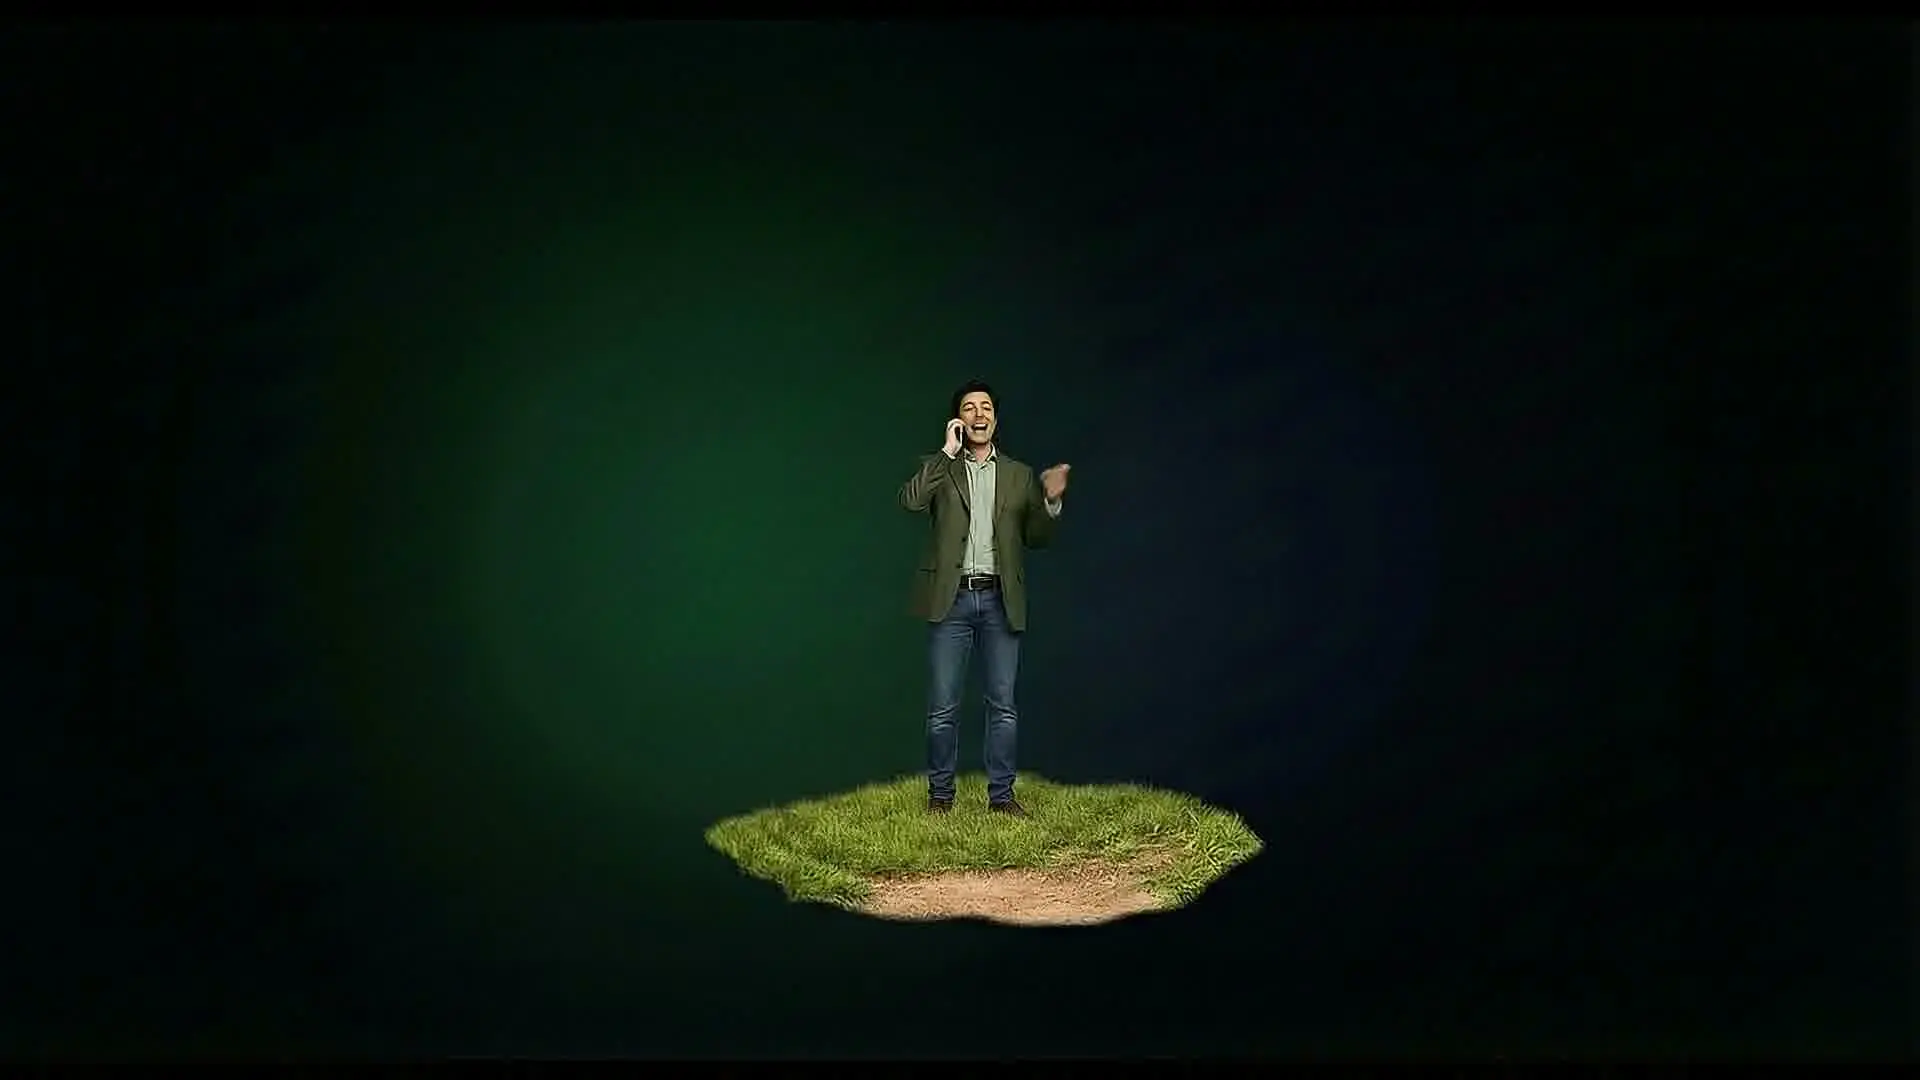
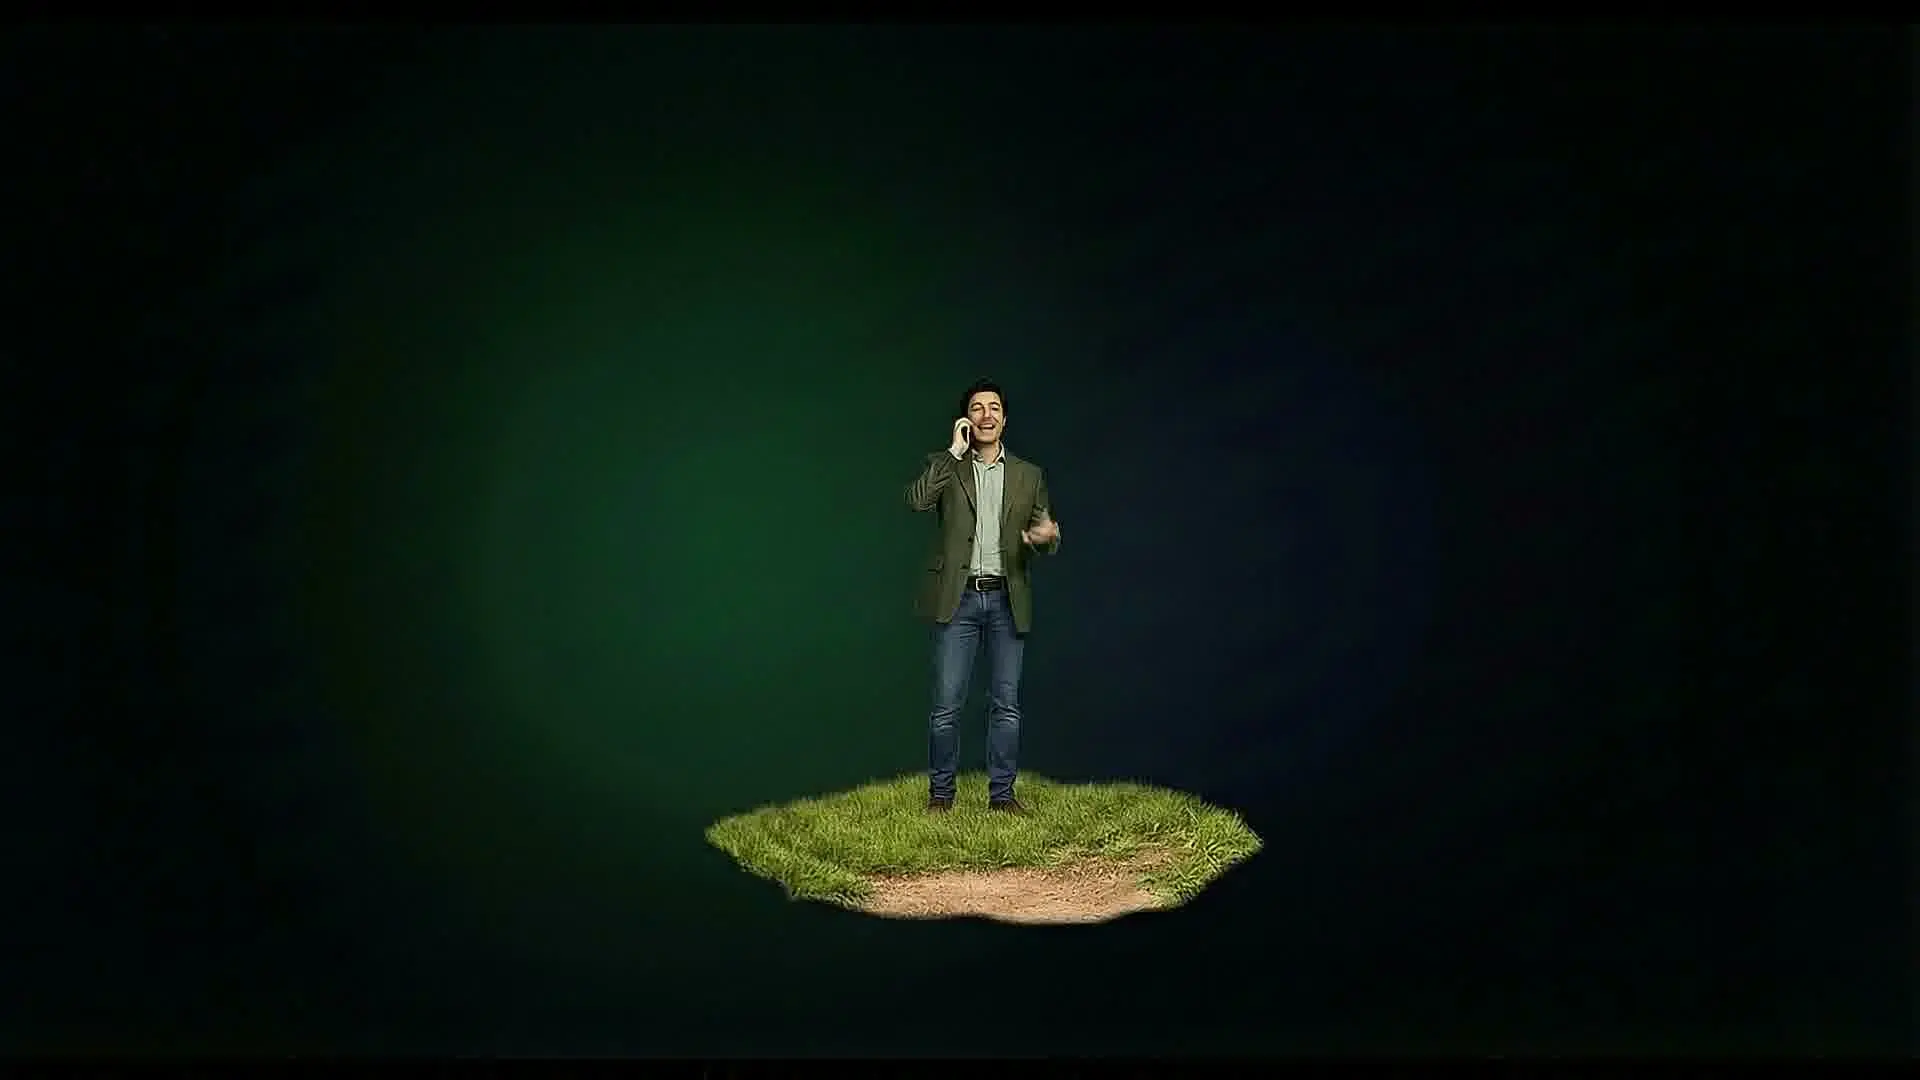
push

Changed region(s): [[0.375, 0.7028, 0.6562, 0.8556], [0.4688, 0.3667, 0.5625, 0.6722]]

diff --git a/src/components/ScrollySection.jsx b/src/components/ScrollySection.jsx
@@ -4,7 +4,7 @@ import HeroSection from './HeroSection'
 import PortfolioBrands from './PortfolioBrands'
 
 // Total number of frames
-const TOTAL_FRAMES = 40
+const TOTAL_FRAMES = 41
 
 // Preload all frame paths
 const framePaths = Array.from({ length: TOTAL_FRAMES }, (_, i) => {
@@ -52,20 +52,20 @@ function ScrollySection({ scrollProgress }) {
     const currentFrame = useMemo(() => {
         let frameIndex = 0
 
-        // Total frames = 40
-        // 0-25: Competition (25 frames) -> alloc 35% scroll (0.0 - 0.35)
-        // 25-35: Companies (10 frames) -> alloc 40% scroll (0.35 - 0.75)
-        // 35-39: Hero (5 frames) -> alloc 25% scroll (0.75 - 1.0)
+        // Total frames = 41
+        // 0-26: Competition (26 frames) -> alloc 35% scroll (0.0 - 0.35)
+        // 26-36: Companies (10 frames) -> alloc 40% scroll (0.35 - 0.75)
+        // 36-40: Hero (5 frames) -> alloc 25% scroll (0.75 - 1.0)
 
         if (scrollProgress < 0.35) {
-            // Range 0 to 0.35 maps to 0 to 25
-            frameIndex = (scrollProgress / 0.35) * 25
+            // Range 0 to 0.35 maps to 0 to 26
+            frameIndex = (scrollProgress / 0.35) * 26
         } else if (scrollProgress < 0.75) {
-            // Range 0.35 to 0.75 maps to 25 to 35
-            frameIndex = 25 + ((scrollProgress - 0.35) / 0.4) * 10
+            // Range 0.35 to 0.75 maps to 26 to 36
+            frameIndex = 26 + ((scrollProgress - 0.35) / 0.4) * 10
         } else {
-            // Range 0.75 to 1.0 maps to 35 to 40
-            frameIndex = 35 + ((scrollProgress - 0.75) / 0.25) * 5
+            // Range 0.75 to 1.0 maps to 36 to 41
+            frameIndex = 36 + ((scrollProgress - 0.75) / 0.25) * 5
         }
 
         return Math.min(
@@ -76,8 +76,8 @@ function ScrollySection({ scrollProgress }) {
 
     // Determine which phase we're in
     const phase = useMemo(() => {
-        if (currentFrame < 25) return 'competition'
-        if (currentFrame < 35) return 'companies'
+        if (currentFrame < 26) return 'competition'
+        if (currentFrame < 36) return 'companies'
         return 'hero'
     }, [currentFrame])
 
@@ -87,7 +87,6 @@ function ScrollySection({ scrollProgress }) {
     }, [currentFrame])
 
     // Calculate which brand to show (0-2)
-    // Frame 25 is a transition frame with no overlay
     const currentBrand = useMemo(() => {
         if (currentFrame < 26) return -1
         if (currentFrame < 29) return 0
